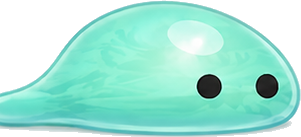
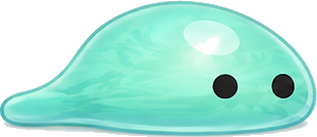
fix: 꼬리 잘림(원본 추출 오류) + 자동 이동 중 마우스 잡기 차단
1) 꼬리가 잘리던 진짜 원인
   시트를 4열 3행 격자로 잘랐는데, 뻗은 자세는 꼬리가 칸 경계를 넘어가 있었다.
   그래서 그 선에서 싹둑 잘린 컷이 그대로 리소스로 들어갔다(꼬리 끝이 직선).
   상자 여백을 늘려도 안 고쳐진 이유가 이것이다 — 그림 자체가 이미 잘려 있었다.

   격자 대신 시트 전체에서 배경을 지우고 연결 덩어리 단위로 찾아 자른다.
   덩어리 크기로 번호 라벨도 함께 걸러진다. 읽는 순서(위->아래, 왼->오른쪽)로 번호를 붙인다.

   복원된 폭:
     f4  293 -> 314   f11 277 -> 288   f12 301 -> 317
     f21 274 -> 292   f22 251 -> 264
   f12 는 시트 x1070 에서 시작하는데 칸 경계가 1086 이었다.

   여유도 더 준다: 스프라이트 폭 84 -> 80 (96 상자에 좌우 8px), 아래 여백 4 -> 6.

2) 자동 이동 중 마우스 잡기/던지기 차단
   걸어 다니는 중에 끌면 스핀이 충전돼 놓는 순간 팽이처럼 돌았다.
   OnMouseLeftButtonDown/Move/Up 에서 자동 이동이면 즉시 반환한다.
   잡기 단축키는 전역 훅이라 그대로 동작하므로 멈추는 길은 남아 있다.
   우클릭 메뉴도 그대로다.

diff --git a/src/ThrowMe/Views/Skins/JellySkin.xaml b/src/ThrowMe/Views/Skins/JellySkin.xaml
@@ -6,19 +6,13 @@
     <Viewbox Stretch="Uniform">
         <Grid Width="96" Height="96">
 
-            <!-- 젤리 본체 (민트→보라 반투명)
-                 Ellipse 가 아니라 Path 다 — 기어다닐 때 바닥에 눌린 돔 + 뒤로 끌리는 꼬리를
-                 만들려면 도형 자체를 다시 그려야 한다(JellySkin.SetCrawlPose).
-                 평소에는 아래 EllipseGeometry 라서 예전과 똑같은 원이다.
-                 Canvas 안에 두어 좌표가 96x96 상자 그대로 쓰이게 한다. -->
-            <!-- 기어다닐 때는 원본 그림에서 잘라낸 컷을 그대로 쓴다.
-                 도형을 코드로 그려 봤지만 통통한 돔과 둥근 꼬리가 나오지 않았다.
-                 바닥선이 흔들리지 않도록 아래 정렬 + 가로 96 고정으로 둔다. -->
-            <!-- 폭을 84 로 둔다(96 상자에 좌우 6px 여백). 96 으로 꽉 채우면 뻗은 자세의
-                 꼬리 끝이 상자 경계에 정확히 닿아 잘려 보인다 — 예전 벡터 몸통도 Margin 6 이었다.
-                 아래 여백 4 는 바닥에 붙어도 끝이 깎이지 않게 하는 여유다. -->
+            <!-- 기어다닐 때 쓰는 컷(원본 시트에서 잘라낸 그림). 방향별로 다른 컷을 쓰므로
+                 좌우로 뒤집지 않는다.
+                 폭 80 = 96 상자에 좌우 8px 여백. 꽉 채우면 뻗은 자세의 꼬리 끝이 경계에 닿아
+                 잘려 보인다(예전 벡터 몸통도 Margin 6, 지름 84 였다).
+                 바닥선이 흔들리지 않도록 아래로 정렬한다. -->
             <Image x:Name="CrawlSprite" Visibility="Collapsed"
-                   Width="84" Stretch="Uniform" Margin="0,0,0,4"
+                   Width="80" Stretch="Uniform" Margin="0,0,0,6"
                    HorizontalAlignment="Center" VerticalAlignment="Bottom"
                    RenderOptions.BitmapScalingMode="HighQuality"/>
 

diff --git a/src/ThrowMe/Views/SlimeWindow.xaml.cs b/src/ThrowMe/Views/SlimeWindow.xaml.cs
@@ -704,6 +704,10 @@ public partial class SlimeWindow : Window
 
     private void OnMouseLeftButtonDown(object sender, MouseButtonEventArgs e)
     {
+        // 자동 이동 중에는 마우스로 잡거나 던질 수 없다. 스스로 걸어 다니는 중에 끌면
+        // 스핀이 충전돼 놓는 순간 팽이처럼 돌아 버린다. 멈추려면 잡기 단축키를 쓴다.
+        if (AutoMoveOn) return;
+
         var c = CursorPhysical();
         LogClickReachedWindow(c);
         if (IsCueMode)
@@ -715,6 +719,7 @@ public partial class SlimeWindow : Window
     }
     private void OnMouseMove(object sender, MouseEventArgs e)
     {
+        if (AutoMoveOn) return;
         var c = CursorPhysical();
         if (_spinDragging) SetSpinFromCursor(c);
         else if (_aiming) UpdateAim(c);
@@ -722,6 +727,7 @@ public partial class SlimeWindow : Window
     }
     private void OnMouseLeftButtonUp(object sender, MouseButtonEventArgs e)
     {
+        if (AutoMoveOn) return;
         var c = CursorPhysical();
         if (_spinDragging) { _spinDragging = false; try { ReleaseMouseCapture(); } catch { } }
         else if (_aiming) ReleaseAim(c);

diff --git a/CHANGELOG.md b/CHANGELOG.md
@@ -17,6 +17,9 @@
   - 오른쪽 걸음과 왼쪽 걸음은 **각각 전용 컷**을 씁니다. 한 장을 좌우로 뒤집어 쓰지 않으므로,
     방향이 조금 흔들려도 그림이 번갈아 나오며 떨리지 않습니다.
   - 자동 이동을 끄면 평소의 동그란 모습으로 돌아옵니다.
+- **자동 이동 중에는 마우스로 잡거나 던질 수 없습니다.** 스스로 걸어 다니는 중에 끌면
+  스핀이 충전돼 놓는 순간 팽이처럼 돌아 버렸습니다. 멈추려면 `잡기` 단축키를 쓰세요
+  (전역 단축키라 그대로 동작합니다).
 - **`이동 속도`** — 초당 몇 픽셀씩 갈지 정합니다(기본 18). 낮출수록 꼬물꼬물 기어갑니다.
 - **`돌아다닐 모니터`** — 자동 이동을 한 모니터 안에만 가둡니다. **던지기에는 적용되지 않아서**,
   손으로는 여전히 어느 모니터로든 보낼 수 있습니다.
